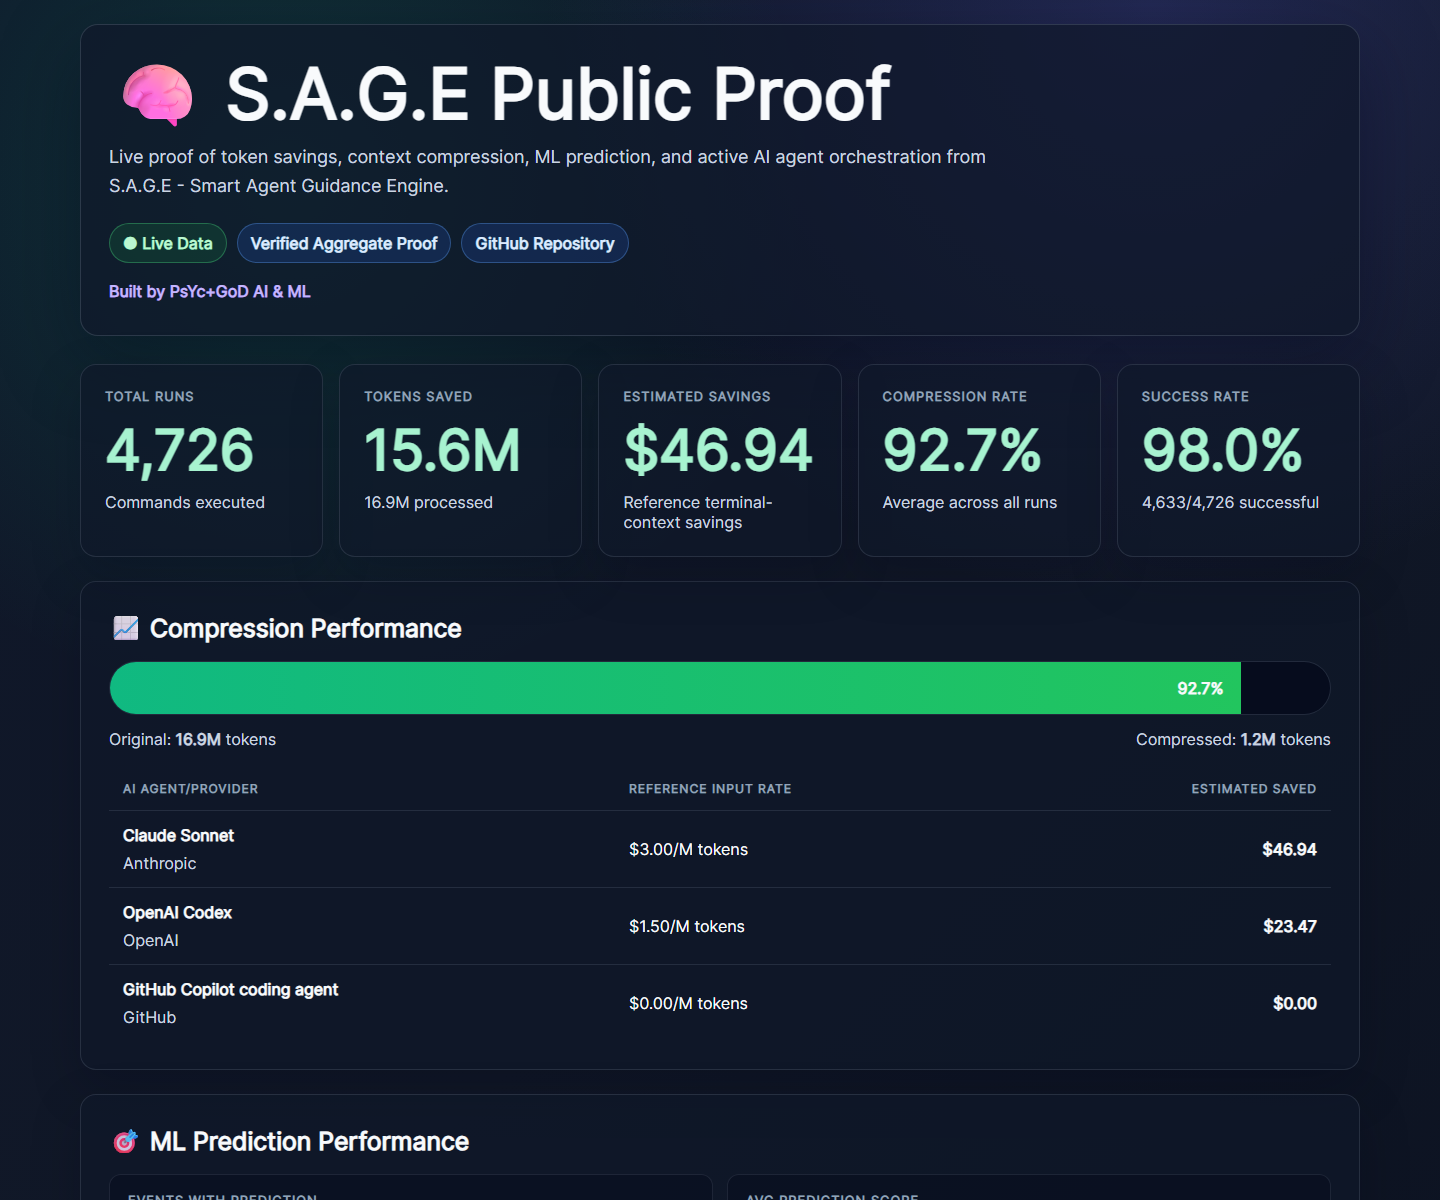
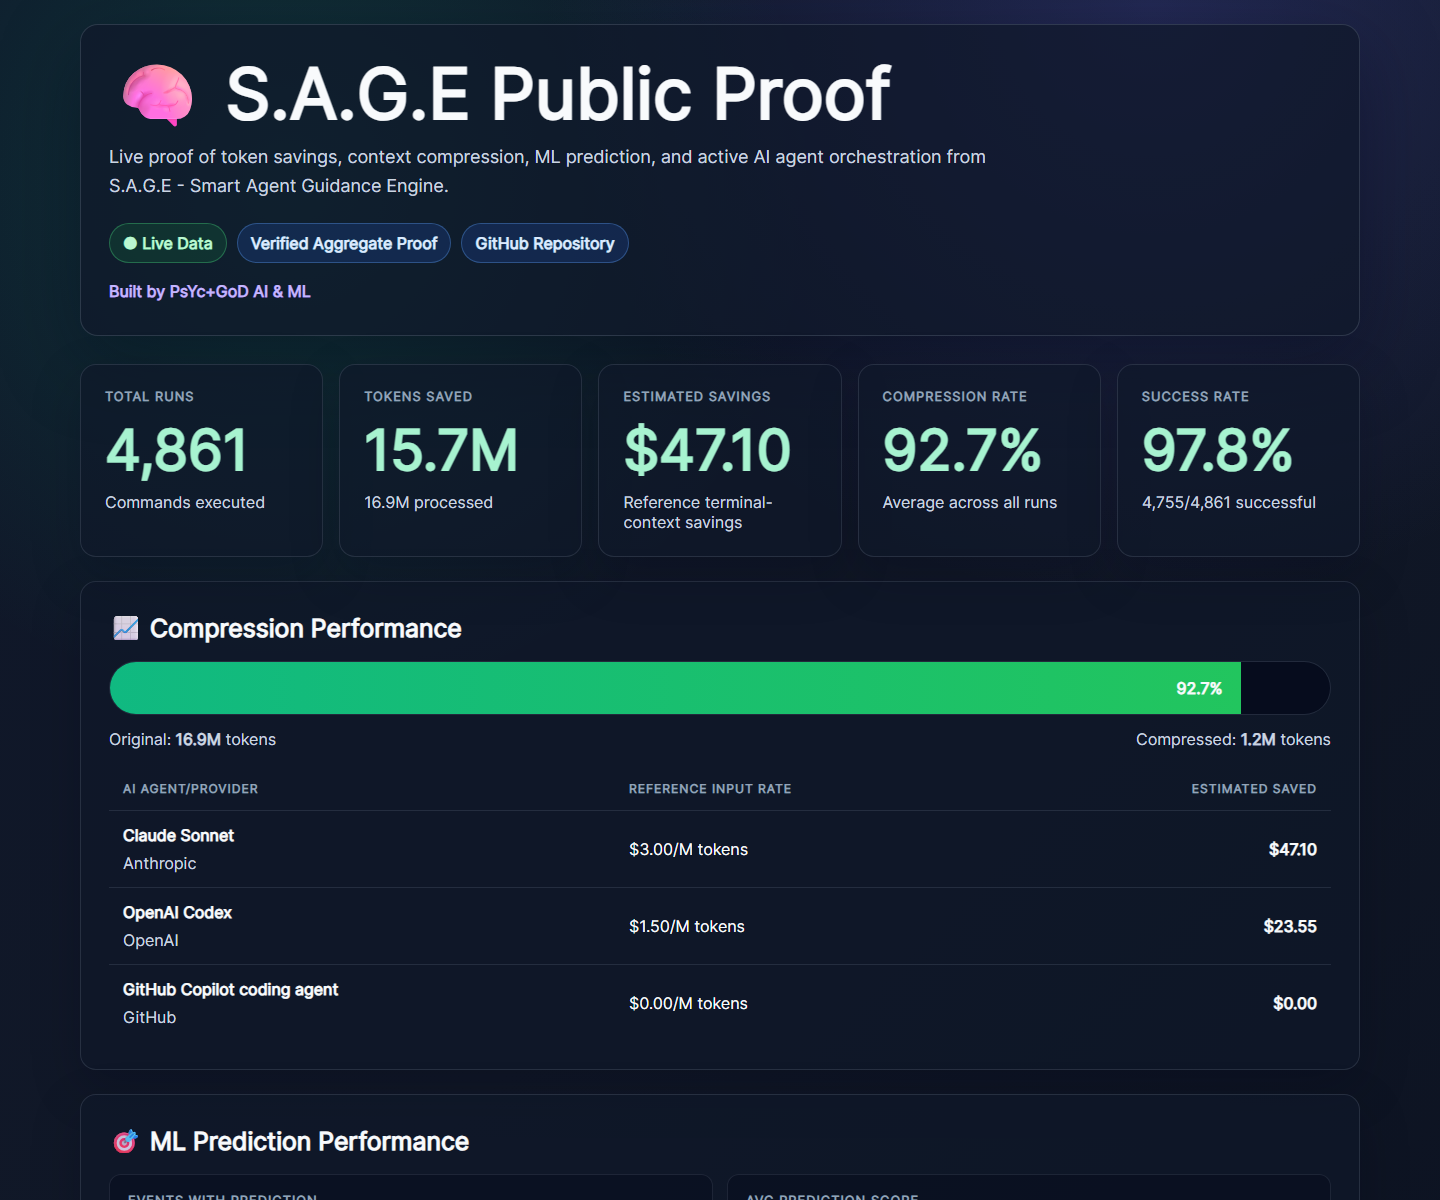
Restore Marketing Studios public dashboard

diff --git a/cloudflare/sage-api/src/worker.js b/cloudflare/sage-api/src/worker.js
@@ -3,7 +3,7 @@ const ALLOWED_ORIGINS = [
   "http://localhost:8765",           // SAGE GUI local
   "http://127.0.0.1:8765",           // Alternative localhost
   "https://sage.api.marketingstudios.in",  // Public dashboard
-  "https://psyc-god-sage-api.valan-dj.workers.dev", // Current public Worker
+  "https://sage-api.pascoaldsouza28.workers.dev", // Workers.dev fallback
 ];
 
 const SAVINGS_PROFILES = [
@@ -184,7 +184,7 @@ const PUBLIC_PROOF_DASHBOARD_HTML = `<!DOCTYPE html>
       </section>
 
       <div class="refresh">
-        <div>Auto-refreshes every 15 seconds. Last updated: <strong id="last-updated">-</strong></div>
+        <div>Auto-refreshes every 10 seconds. Last updated: <strong id="last-updated">-</strong></div>
       </div>
     </main>
 
@@ -262,7 +262,7 @@ const PUBLIC_PROOF_DASHBOARD_HTML = `<!DOCTYPE html>
       }
     }
     loadProofData();
-    setInterval(loadProofData, 15000);
+    setInterval(loadProofData, 10000);
   </script>
 </body>
 </html>`;

diff --git a/src/sage/telemetry.py b/src/sage/telemetry.py
@@ -27,8 +27,8 @@ from .security import redact_text
 from .store import connect, data_dir
 
 SCHEMA_VERSION = "1.0"
-DEFAULT_API_BASE_URL = "https://psyc-god-sage-api.valan-dj.workers.dev"
-FALLBACK_API_BASE_URL = "https://sage.api.marketingstudios.in"
+DEFAULT_API_BASE_URL = "https://sage.api.marketingstudios.in"
+FALLBACK_API_BASE_URL = "https://sage-api.pascoaldsouza28.workers.dev"
 KEYRING_SERVICE = "psycgod-sage"
 
 # 🔒 SECURITY: Master key for API key generation

diff --git a/src/sage/__init__.py b/src/sage/__init__.py
@@ -1,1 +1,1 @@
-__version__ = "2.0.0"
+__version__ = "2.0.1"

diff --git a/src/sage/cli.py b/src/sage/cli.py
@@ -357,7 +357,7 @@ def _add_login_args(parser: argparse.ArgumentParser) -> None:
     parser.add_argument("--public-profile", action="store_true", help="Show this profile on public proof leaderboards.")
     parser.add_argument("--privacy-max", type=int, default=1, choices=[0, 1, 2, 3, 4], help="Maximum telemetry level allowed for this key.")
     parser.add_argument("--scope", default="personal", help="API key scope label.")
-    parser.add_argument("--endpoint", default="", help="SAGE API base URL. Defaults to psyc-god-sage-api.valan-dj.workers.dev.")
+    parser.add_argument("--endpoint", default="", help="SAGE API base URL. Defaults to sage.api.marketingstudios.in.")
     parser.add_argument("--expiry-days", type=int, choices=[30, 60, 90], help="API key expiration in days.")
 
 def main(argv: list[str] | None = None) -> int:

diff --git a/src/sage/mcp/client.py b/src/sage/mcp/client.py
@@ -29,7 +29,7 @@ from typing import Any
 log = logging.getLogger(__name__)
 
 PROTOCOL_VERSION = "2024-11-05"
-CLIENT_INFO = {"name": "psycgod-sage", "version": "2.0.0"}
+CLIENT_INFO = {"name": "psycgod-sage", "version": "2.0.1"}
 
 @dataclass
 class MCPConnectionResult:

diff --git a/src/sage/mcp/server.py b/src/sage/mcp/server.py
@@ -31,7 +31,7 @@ from .tools import (
 log = logging.getLogger(__name__)
 
 PROTOCOL_VERSION = "2024-11-05"
-SERVER_INFO = {"name": "sage", "version": "2.0.0"}
+SERVER_INFO = {"name": "sage", "version": "2.0.1"}
 COMMAND_TOOL_NAMES = {"sage_run_command"}
 
 def command_tools_enabled() -> bool:

diff --git a/tests/test_cli_basic.py b/tests/test_cli_basic.py
@@ -41,7 +41,7 @@ class TestBasicCLI:
             timeout=5
         )
         assert result.returncode == 0
-        assert "0.1.0" in result.stdout or "2.0.0" in result.stdout
+        assert "0.1.0" in result.stdout or "2.0.1" in result.stdout
 
     def test_sage_help(self):
         """Test: sage --help returns usage info"""

diff --git a/README.md b/README.md
@@ -11,7 +11,7 @@ The public package is CLI-first. The desktop GUI is not included in this public 
 
 ## Live Public Proof Dashboard
 
-Live dashboard: https://psyc-god-sage-api.valan-dj.workers.dev/dashboard
+Live dashboard: https://sage.api.marketingstudios.in/dashboard
 
 ![SAGE Live Public Proof Dashboard](docs/assets/sage-live-dashboard.png)
 
@@ -27,13 +27,13 @@ Latest verified snapshot:
 
 | Metric | Value |
 |--------|------:|
-| Commands processed | 4,726 |
-| Tokens processed | 16,870,812 |
-| Tokens compressed | 1,225,605 |
-| Tokens saved | 15,645,207 |
-| Estimated savings | $46.94 |
-| Compression rate | 92.74% |
-| Success rate | 98.03% |
+| Commands processed | 4,861 |
+| Tokens processed | 16,941,223 |
+| Tokens compressed | 1,242,421 |
+| Tokens saved | 15,698,802 |
+| Estimated savings | $47.10 |
+| Compression rate | 92.67% |
+| Success rate | 97.82% |
 
 These stats reflect the public CLI proof snapshot after the hosted dashboard went live.
 Raw commands, outputs, file paths, and logs stay local by default. Public proof uses aggregate counters only.

diff --git a/cloudflare/sage-api/README.md b/cloudflare/sage-api/README.md
@@ -7,8 +7,8 @@ Public SAGE API Worker for opt-in telemetry, API key bootstrap, and aggregate pr
 | Resource | Name |
 |---|---|
 | Worker | `sage-api` |
-| Current public Worker | `https://psyc-god-sage-api.valan-dj.workers.dev` |
-| Previous custom domain | `https://sage.api.marketingstudios.in` |
+| Custom domain | `https://sage.api.marketingstudios.in` |
+| Workers.dev fallback | `https://sage-api.pascoaldsouza28.workers.dev` |
 | D1 database | `sage_telemetry` |
 | D1 database ID | `30dce3a3-6f7f-423c-9f29-4ff812685752` |
 | Queue | `sage-telemetry-queue` |
@@ -101,11 +101,11 @@ sage telemetry send --for-real
 Public proof:
 
 ```text
-https://psyc-god-sage-api.valan-dj.workers.dev/v1/proof
+https://sage.api.marketingstudios.in/v1/proof
 ```
 
 The fallback endpoint remains:
 
 ```text
-https://sage.api.marketingstudios.in/v1/proof
+https://sage-api.pascoaldsouza28.workers.dev/v1/proof
 ```

diff --git a/cloudflare/sage-api/DEPLOYMENT.md b/cloudflare/sage-api/DEPLOYMENT.md
@@ -57,7 +57,7 @@ sage connect --display-name "Test User"
 # Should succeed with: ✅ SAGE API connected
 
 # Try connecting WITHOUT master key (simulate hacker):
-curl -X POST https://psyc-god-sage-api.valan-dj.workers.dev/v1/keys \
+curl -X POST https://sage.api.marketingstudios.in/v1/keys \
   -H "Content-Type: application/json" \
   -d '{"display_name": "Hacker"}'
 